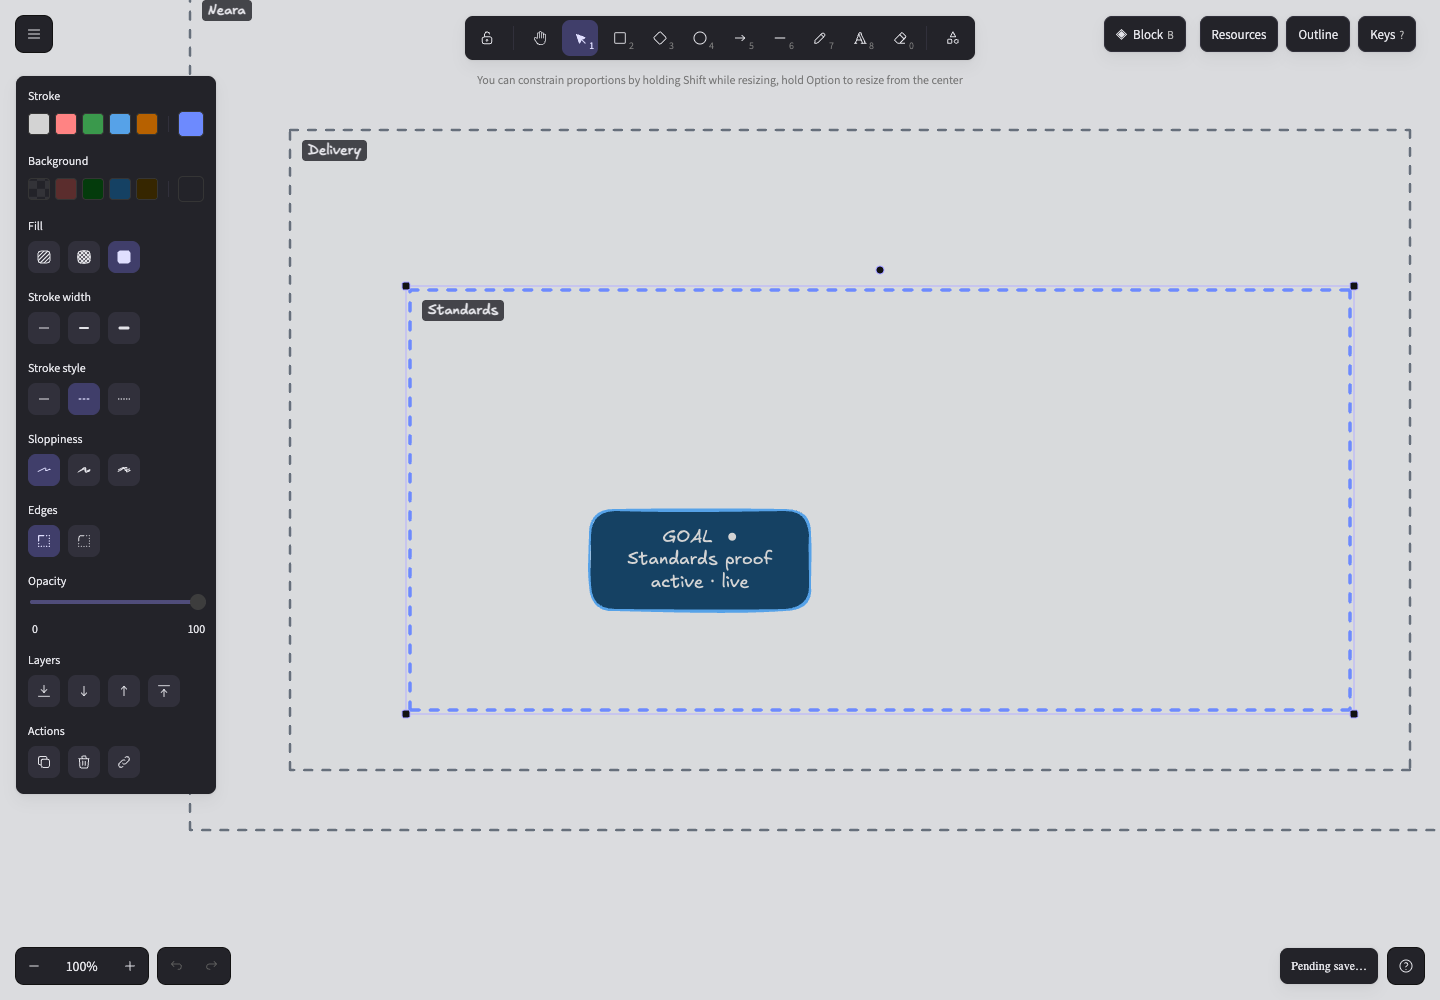
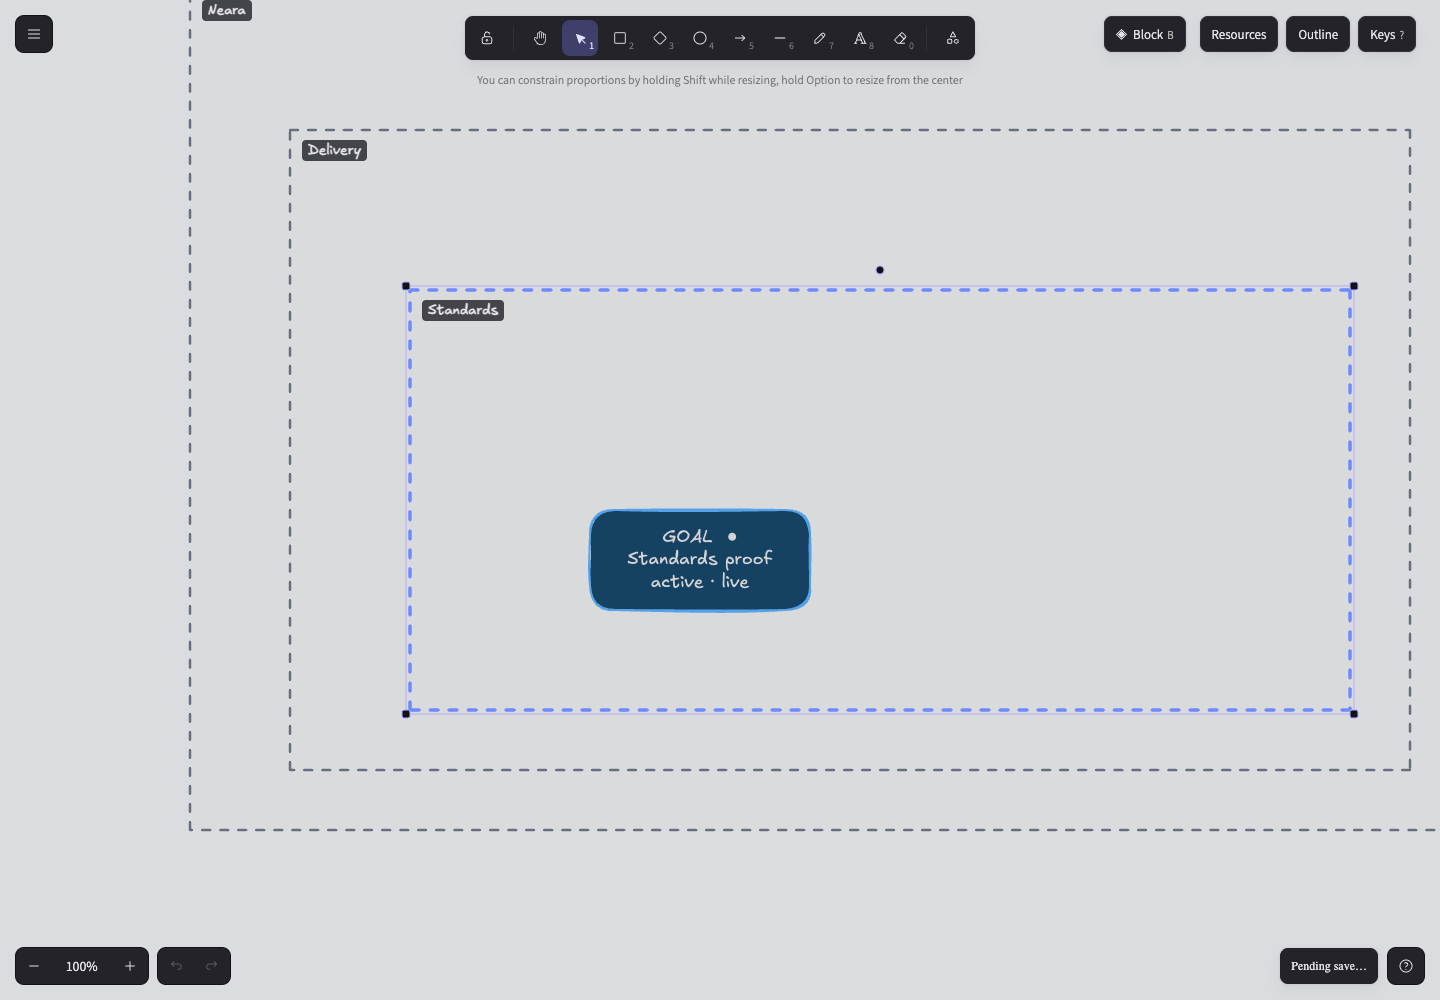
fix(agent-shell): an Area outline cannot be restyled, and Excalidraw's shape island is not offered for one
An Area outline is composed from the Area tree, so its stroke, fill and opacity are the composition's. Excalidraw offered its ordinary shape properties for one anyway, and a Background swatch wrote the colour into the outline. The Map had nothing to record, so nothing undid the paint: inside the projection fence the change was absorbed as settling and the Area stayed green.

Two rules, both in canvas/area-outline-style.ts. onlyAreaOutlinesHeld hides the shape island while outlines are the whole selection, so no swatch, Duplicate or Delete is offered for geometry no person authored; the island returns the moment a Block is held. areaOutlineRestyled catches a change that gave an outline a presentation the composed scene did not, and the change handler puts the composed scene straight back before the fence can absorb it, which covers every other way a style write reaches an outline.

The crossing golden loses the island it captured over a selected Area outline; nothing else in it moved.

The pre-commit hook was bypassed because it resolves jscpd from the main checkout's node_modules, which has none; the same pool ran here first with all 24 checks green.

Claude-Session: https://claude.ai/code/session_01BvySugVCrKHHfvF7NvsZX5

Changed region(s): [[0.0, 0.062, 0.1562, 0.806]]

diff --git a/packages/agent-shell/app/map/canvas/area-outline-style.ts b/packages/agent-shell/app/map/canvas/area-outline-style.ts
@@ -1,0 +1,99 @@
+// The presentation of an Area outline, which belongs to the Area tree and never to the person.
+//
+// An Area outline is composed from the tree: the controller re-derives its stroke, its
+// near-transparent fill and its opacity every time the world is composed. Excalidraw knows none of
+// that. It offers its ordinary shape properties for whatever is selected, and one click on a
+// Background swatch writes that colour into the outline element. The write is not a change the Map
+// can record anywhere, so nothing undoes it and the Area stays painted.
+//
+// Two rules live here. `onlyAreaOutlinesHeld` says when the whole selection is outlines, which is
+// when the Map hides Excalidraw's shape properties, so the controls are never offered for something
+// no person authored. `areaOutlineRestyled` says when a change Excalidraw reports gave an outline a
+// presentation the composed scene did not, which is how every remaining path, such as a selection
+// that catches an outline beside a Block, is refused and re-projected.
+
+import { regionAreaOf } from "../input/hit-test.ts";
+import type { SceneElement, Selection } from "../kernel/kernel-types.ts";
+import type { RuntimeId } from "../units/ids.ts";
+
+/** What an Area outline looks like: every field Excalidraw's shape properties write and the composition owns. */
+type OutlinePresentation = {
+  readonly strokeColor: SceneElement["strokeColor"];
+  readonly backgroundColor: SceneElement["backgroundColor"];
+  readonly fillStyle: SceneElement["fillStyle"];
+  readonly strokeWidth: SceneElement["strokeWidth"];
+  readonly strokeStyle: SceneElement["strokeStyle"];
+  readonly roughness: SceneElement["roughness"];
+  readonly opacity: SceneElement["opacity"];
+  readonly link: SceneElement["link"];
+  readonly locked: SceneElement["locked"];
+};
+
+/** Reads one element's presentation, which is all of it this module compares. */
+function presentationOf(element: SceneElement): OutlinePresentation {
+  return {
+    strokeColor: element.strokeColor,
+    backgroundColor: element.backgroundColor,
+    fillStyle: element.fillStyle,
+    strokeWidth: element.strokeWidth,
+    strokeStyle: element.strokeStyle,
+    roughness: element.roughness,
+    opacity: element.opacity,
+    link: element.link,
+    locked: element.locked,
+  };
+}
+
+/** True when two presentations disagree about any field. */
+function presentationDiffers(composed: OutlinePresentation, incoming: OutlinePresentation): boolean {
+  return composed.strokeColor !== incoming.strokeColor
+    || composed.backgroundColor !== incoming.backgroundColor
+    || composed.fillStyle !== incoming.fillStyle
+    || composed.strokeWidth !== incoming.strokeWidth
+    || composed.strokeStyle !== incoming.strokeStyle
+    || composed.roughness !== incoming.roughness
+    || composed.opacity !== incoming.opacity
+    || composed.link !== incoming.link
+    || composed.locked !== incoming.locked;
+}
+
+/** The Area outlines of one element list, by the id Excalidraw holds them under. */
+function outlinesById(elements: readonly SceneElement[]): Map<RuntimeId, SceneElement> {
+  const outlines = new Map<RuntimeId, SceneElement>();
+  for (const element of elements) {
+    if (regionAreaOf(element) !== null) outlines.set(element.id, element);
+  }
+  return outlines;
+}
+
+/**
+ * True when the incoming scene gives an Area outline a presentation the composed scene did not.
+ * Position is not presentation: an Area the person drags moves, and this stays false for it. An
+ * outline the change dropped altogether is a delete, which the outline protection answers, so an id
+ * that is missing from either side is not a restyle.
+ */
+export function areaOutlineRestyled(composed: readonly SceneElement[], incoming: readonly SceneElement[]): boolean {
+  const before = outlinesById(composed);
+  if (before.size === 0) return false;
+  for (const [id, element] of outlinesById(incoming)) {
+    const original = before.get(id);
+    if (original === undefined) continue;
+    if (presentationDiffers(presentationOf(original), presentationOf(element))) return true;
+  }
+  return false;
+}
+
+/**
+ * True when the selection is Area outlines and nothing else. Excalidraw's shape properties apply to
+ * a shape a person drew; every control on that island, from the swatches to Duplicate and Delete,
+ * would edit geometry the Area tree owns, so the Map hides the island for this selection alone. A
+ * selection that also holds a Block keeps the island, because the Block is the person's to style.
+ */
+export function onlyAreaOutlinesHeld(elements: readonly SceneElement[], selection: Selection): boolean {
+  if (selection.size === 0) return false;
+  const outlines = outlinesById(elements);
+  for (const id of selection) {
+    if (!outlines.has(id)) return false;
+  }
+  return true;
+}

diff --git a/packages/agent-shell/app/map/canvas/area-outline-style.test.ts b/packages/agent-shell/app/map/canvas/area-outline-style.test.ts
@@ -1,0 +1,72 @@
+// Area outline presentation: what counts as a restyle, and when the shape island is hidden.
+
+import assert from "node:assert/strict";
+import { test } from "node:test";
+import type { SceneElement, Selection } from "../kernel/kernel-types.ts";
+import { runtimeId } from "../units/ids.ts";
+import type { RuntimeId } from "../units/ids.ts";
+import { areaOutlineRestyled, onlyAreaOutlinesHeld } from "./area-outline-style.ts";
+
+/** One composed Area outline, with the near-transparent fill the controller derives. */
+function outline(id: string, area: string): SceneElement {
+  return {
+    id: runtimeId(id), type: "rectangle", x: 0, y: 0, width: 100, height: 80, angle: 0,
+    strokeColor: "#8b95a3", backgroundColor: "#ffffff01", fillStyle: "solid", strokeWidth: 2,
+    strokeStyle: "dashed", roughness: 0, opacity: 100, link: null, locked: false,
+    customData: { tangent: { role: "area-region", area } },
+  } as unknown as SceneElement;
+}
+
+/** One Block a person drew, which the Area tree does not own. */
+function block(id: string): SceneElement {
+  return {
+    id: runtimeId(id), type: "rectangle", x: 0, y: 0, width: 40, height: 20, angle: 0,
+    strokeColor: "#c9d1d9", backgroundColor: "transparent", fillStyle: "solid", strokeWidth: 2,
+    strokeStyle: "solid", roughness: 0, opacity: 100, link: null, locked: false,
+    customData: { tangent: { kind: "area", ref: "otto" } },
+  } as unknown as SceneElement;
+}
+
+/** The ids of some elements, as the Map holds a selection. */
+function held(...ids: readonly string[]): Selection {
+  return new Set<RuntimeId>(ids.map(runtimeId));
+}
+
+/** The same element with one field replaced, which is what a shape-properties click writes. */
+function withField(element: SceneElement, field: string, value: unknown): SceneElement {
+  return { ...element, [field]: value } as SceneElement;
+}
+
+test("a Background swatch on an Area outline is a restyle", () => {
+  const composed = [outline("region-a", "otto"), block("block-a")];
+  assert.equal(areaOutlineRestyled(composed, composed), false);
+  assert.equal(areaOutlineRestyled(composed, [withField(composed[0], "backgroundColor", "#b2f2bb"), composed[1]]), true);
+});
+
+test("every other shape-properties control on an outline is a restyle too", () => {
+  const composed = [outline("region-a", "otto")];
+  for (const [field, value] of [["strokeColor", "#e03131"], ["fillStyle", "hachure"], ["strokeWidth", 4],
+    ["strokeStyle", "solid"], ["roughness", 2], ["opacity", 30], ["link", "https://example.test"], ["locked", true]]) {
+    assert.equal(areaOutlineRestyled(composed, [withField(composed[0], field, value)]), true, `${field} is presentation`);
+  }
+});
+
+test("moving an Area, or styling a Block, is not a restyle of an outline", () => {
+  const composed = [outline("region-a", "otto"), block("block-a")];
+  assert.equal(areaOutlineRestyled(composed, [{ ...composed[0], x: 40, y: 60 } as SceneElement, composed[1]]), false);
+  assert.equal(areaOutlineRestyled(composed, [composed[0], withField(composed[1], "backgroundColor", "#b2f2bb")]), false);
+});
+
+test("a scene with no outline, and an outline the change dropped, are not restyles", () => {
+  assert.equal(areaOutlineRestyled([block("block-a")], [withField(block("block-a"), "backgroundColor", "#b2f2bb")]), false);
+  assert.equal(areaOutlineRestyled([outline("region-a", "otto")], []), false);
+});
+
+test("the shape island is hidden for outlines alone and returns when a Block is held with them", () => {
+  const elements = [outline("region-a", "otto"), outline("region-b", "otto/tangent"), block("block-a")];
+  assert.equal(onlyAreaOutlinesHeld(elements, held("region-a")), true);
+  assert.equal(onlyAreaOutlinesHeld(elements, held("region-a", "region-b")), true);
+  assert.equal(onlyAreaOutlinesHeld(elements, held("region-a", "block-a")), false);
+  assert.equal(onlyAreaOutlinesHeld(elements, held("block-a")), false);
+  assert.equal(onlyAreaOutlinesHeld(elements, held()), false);
+});

diff --git a/packages/agent-shell/app/map/map-root/map-root-canvas.ts b/packages/agent-shell/app/map/map-root/map-root-canvas.ts
@@ -7,6 +7,7 @@
 // buffered text edit, or a real change that `map-publish.ts` turns into world authority.
 
 import type { ExcalidrawImperativeAPI, PointerDownState } from "@excalidraw/excalidraw/types";
+import { areaOutlineRestyled } from "../canvas/area-outline-style.ts";
 import { asSceneElements, selectedIds } from "../canvas/projection.ts";
 import type { Projection, SelectionAppState } from "../canvas/projection.ts";
 import { TextEditBuffer, captureLiveTextEdit, finishTextEdit, staleEditingText } from "../canvas/text-edit.ts";
@@ -181,9 +182,26 @@ function syncSelection(deps: CanvasDeps, appState: SelectionAppState): boolean {
   return true;
 }
 
+/**
+ * Refuses a change that restyled an Area outline, and puts the composed scene straight back.
+ *
+ * An outline is drawn from the Area tree, so its stroke, fill and opacity are the composition's to
+ * decide. Excalidraw's shape properties write them anyway, and the write is not a change the world
+ * can record, so without this the paint has nothing to undo it: inside the projection fence the
+ * change is absorbed as settling and the Area stays painted. The push is made now rather than
+ * deferred, so Excalidraw redraws the composed outline in the same frame and nothing flashes.
+ */
+function refuseOutlineRestyle(deps: CanvasDeps, elements: readonly ExcalidrawElement[]): boolean {
+  const composed = deps.controller.snapshot().scene.elements;
+  if (!areaOutlineRestyled(composed, asSceneElements(elements))) return false;
+  deps.projection.project({ elements: composed }, "area-style-rejected");
+  return true;
+}
+
 /** Normalises one Excalidraw callback into source-owned world authority. */
 function handleChange(deps: CanvasDeps, elements: readonly ExcalidrawElement[], appState: ChangeAppState): void {
   if (deps.projection.consume(elements, appState)) return;
+  if (refuseOutlineRestyle(deps, elements)) return;
   const command = userCommandOpen(deps);
   if (!command && deps.projection.absorbFencedChange(elements)) return;
   if (captureLiveTextEdit(deps.buffer, elements, appState)) {

diff --git a/packages/agent-shell/app/map/MapRoot.tsx b/packages/agent-shell/app/map/MapRoot.tsx
@@ -9,6 +9,7 @@
 
 import { useMemo, useRef, useState } from "react";
 import type { ExcalidrawImperativeAPI } from "@excalidraw/excalidraw/types";
+import { onlyAreaOutlinesHeld } from "./canvas/area-outline-style.ts";
 import { AreaLabels } from "./canvas/AreaLabels.tsx";
 import { MapCanvas } from "./canvas/MapCanvas.tsx";
 import { LAYOUT, layoutCssVariables } from "./layout/layout-tokens.ts";
@@ -89,7 +90,10 @@ function MapBody({ core, stores, wiring, snapshot, view, options, controller }: 
   // the person means, not the Area the Map happens to be centred on.
   const resourcesArea = selectedVisibleArea(wiring.reads.scene, snapshot.selection) ?? (block === null ? snapshot.locatedArea : areaOfBlock(wiring.commands, block) || snapshot.locatedArea);
   const panelOpen = stores.resources.open && !stores.resources.narrow;
-  const rootClass = `TangentAreaMap theme--dark${panelOpen ? " resources-panel-open" : ""}`;
+  // Excalidraw's shape properties are hidden while the selection is Area outlines and nothing else;
+  // every control on that island would edit geometry the Area tree owns. `ui/map.css` holds the rule.
+  const outlinesHeld = onlyAreaOutlinesHeld(snapshot.scene.elements, snapshot.selection);
+  const rootClass = `TangentAreaMap theme--dark${panelOpen ? " resources-panel-open" : ""}${outlinesHeld ? " area-outline-selected" : ""}`;
   return (
     <div
       className={rootClass}

diff --git a/packages/agent-shell/app/map/ui/map.css b/packages/agent-shell/app/map/ui/map.css
@@ -20,6 +20,11 @@
 .TangentAreaMap .excalidraw { font-family: var(--tangent-font-ui); }
 /* Tangent has no drawing library; the trigger would sit under the Outline button. */
 .TangentAreaMap .default-sidebar-trigger { display: none; }
+/* An Area outline is drawn from the Area tree, so nothing on Excalidraw's shape island applies to
+   it: the swatches, the fill, the opacity, Duplicate and Delete would all edit geometry no person
+   authored. The island is hidden while outlines are the whole selection, and returns the moment a
+   Block is held with them. MapRoot.tsx sets the class from onlyAreaOutlinesHeld. */
+.TangentAreaMap.area-outline-selected .App-menu__left { display: none; }
 .TangentAreaMap .layer-ui__wrapper__top-right { gap: 8px; }
 
 .tangent-map-toolbar-extra { display: contents; }

diff --git a/packages/agent-shell/app/map/canvas/projection.ts b/packages/agent-shell/app/map/canvas/projection.ts
@@ -27,7 +27,7 @@ import type { Count, Milliseconds } from "../units/units.ts";
 
 /** Every reason a projection is pushed. The diagnostic event names the reason so a trace reads as a story. */
 export const PROJECTION_REASONS = [
-  "additive-pointer-selection", "additive-selection-repair", "area-pointer-preview", "area-selection", "area-transform-rejected",
+  "additive-pointer-selection", "additive-selection-repair", "area-pointer-preview", "area-selection", "area-style-rejected", "area-transform-rejected",
   "camera-selection", "claim", "claimed-nudge", "no-change", "placed-block-selection", "pointer-down-selection",
   "pointer-release-selection", "projection", "resource-placement-preview", "selection-repair", "stale-region-release",
   "stale-text-repair", "view-return",
